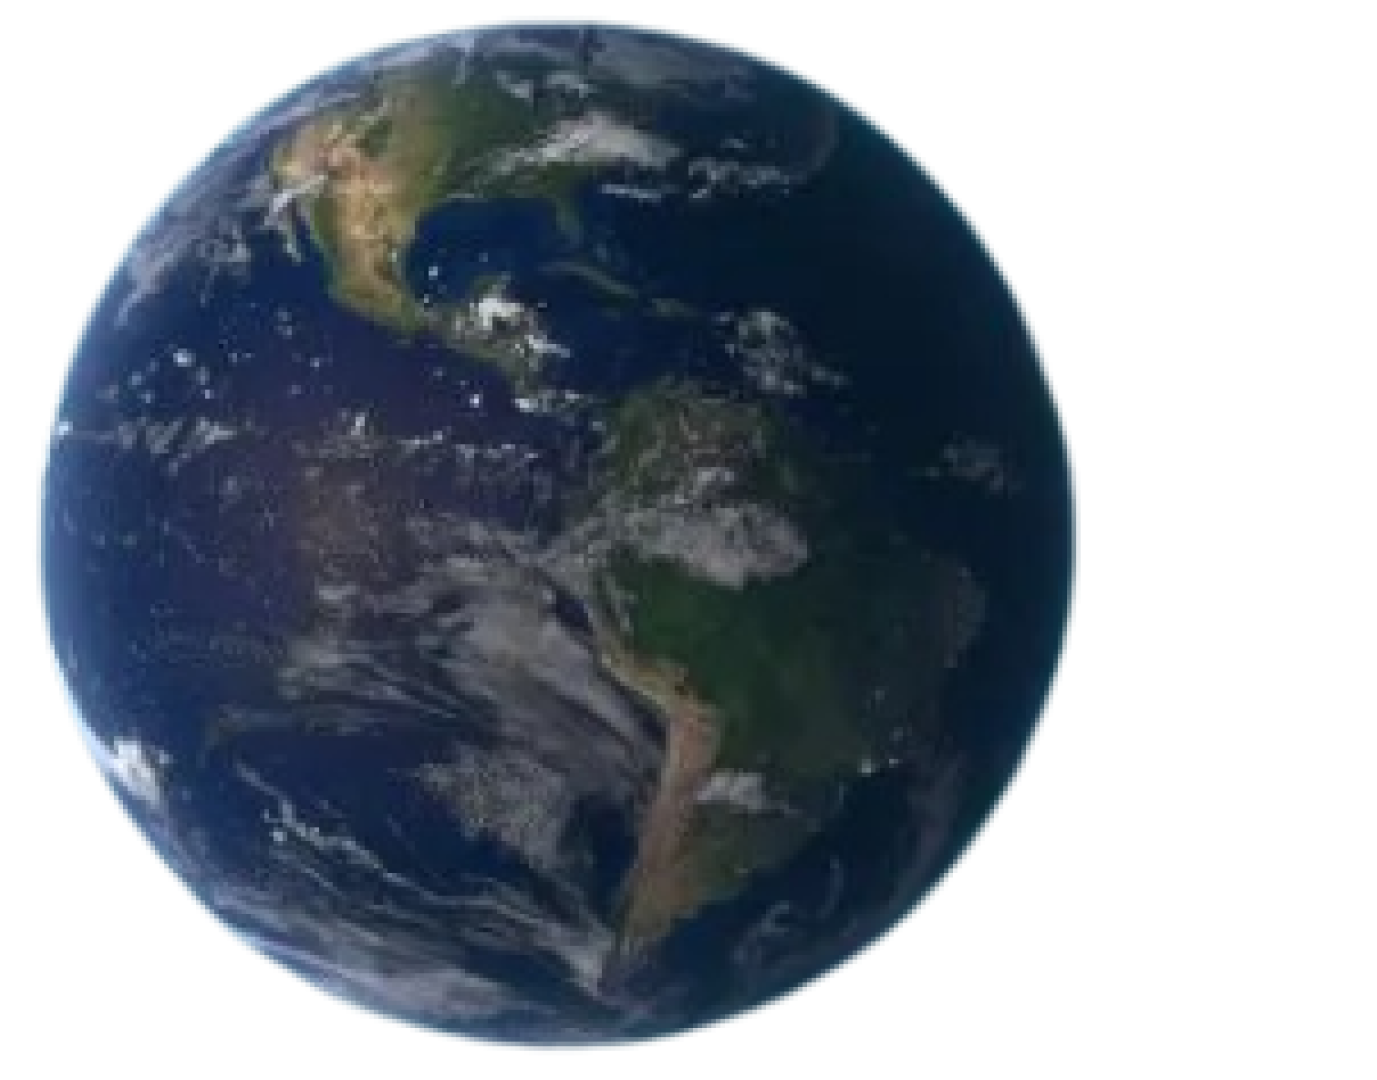
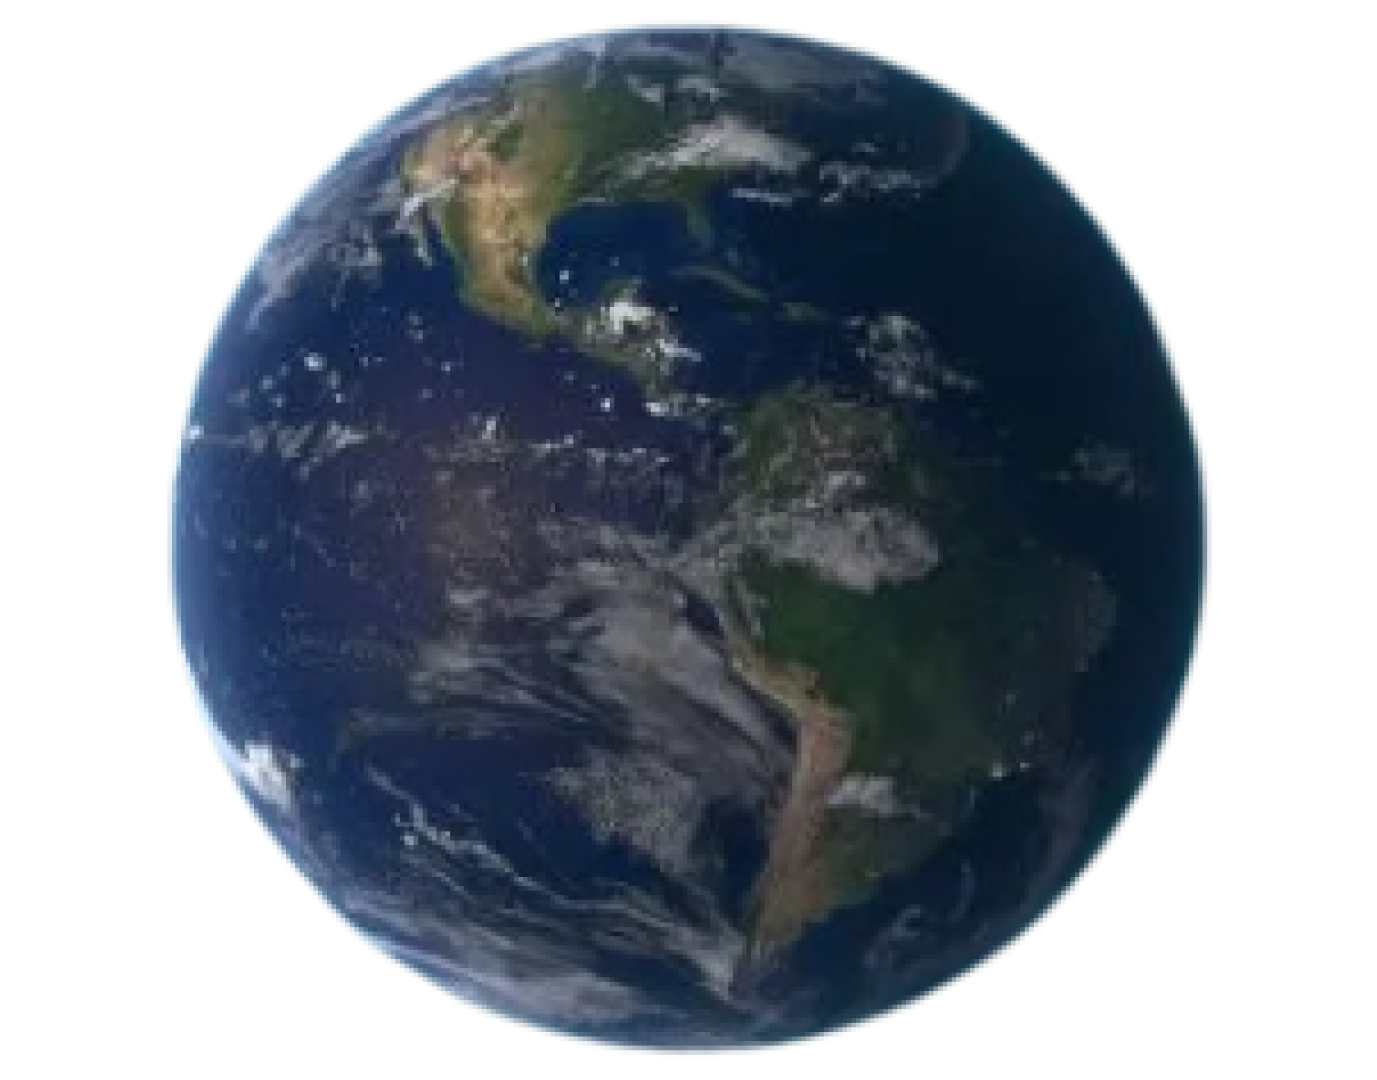
fin intro

diff --git a/Frontend/INTRO/Intro.css b/Frontend/INTRO/Intro.css
@@ -1,37 +1,53 @@
 body{
     font-family: "Inter" , sans-serif;
     font-style: italic;
+    margin: 0;
+    padding: 0;
+    width: 100%;
+    height: 100vh;
+    display: flex;
+    align-items: center;
+    justify-content: center;
 }
 
-.gala{
-    width: 60%;
-    height: 97vh;
+.fotos{
+    position: absolute;
+    display: flex;
+    align-items: center;
+    justify-content: center;
+    width: 100%;
+    height: 100%;
+    z-index: -1;
 }
 
 .galaxia{
     width: 40%;
-    height: 97vh;
+    height: 100%;
 }
 
-.fotos{
-    display: flex;
+.gala{
+    width: 60%;
+    height: 100%;
 }
 
 .globo{
+    width: 70%;
+    height: auto;
+    max-height: 100%;
+    object-fit: contain;
     position: absolute;
-    top: 5vh;
-    left: 50vh;
-    width: 60%;
-    height: 90vh;
+    top: 50%; right: 50%;
+    transform: translate(50%,-50%);
+    z-index: -1;
 }
 
 .GL{
     display: flex;
-    font-size: 40vh;
+    font-size: 32.5vw;
     font-weight: 800;
-    position: absolute;
-    top: 25vh;
-    left: 70vh;
+    display: flex;
+    align-items: center;
+    justify-content: center;
     -webkit-text-stroke: 3px #fff;
 }
 
@@ -41,4 +57,8 @@ body{
 
 .L{
     color: #272DA3;
+}
+
+a{
+    text-decoration: none;
 }

diff --git a/Frontend/INTRO/Intro.html b/Frontend/INTRO/Intro.html
@@ -10,15 +10,17 @@
     <link href="https://fonts.googleapis.com/css2?family=Inter:ital,opsz,wght@0,14..32,100..900;1,14..32,100..900&display=swap" rel="stylesheet">
     
 </head>
-<body>
+<body>  
     <div class="fotos">
         <img class="gala" src="../INTRO/IntroImg/image 4.png" alt="">
         <img class="galaxia" src="../INTRO/IntroImg/image 3.png" alt="">
     </div>
     <img class="globo" src="../INTRO/IntroImg/image 2.png" alt="">
-    <div class="GL">
-        <div class="G">G</div>
-        <div class="L">L</div>
-    </div>
+    <a href="../Menu/GeographleMenu.html">
+        <div class="GL">
+            <div class="G">G</div>
+            <div class="L">L</div>
+        </div>
+    </a>
 </body>
 </html>
